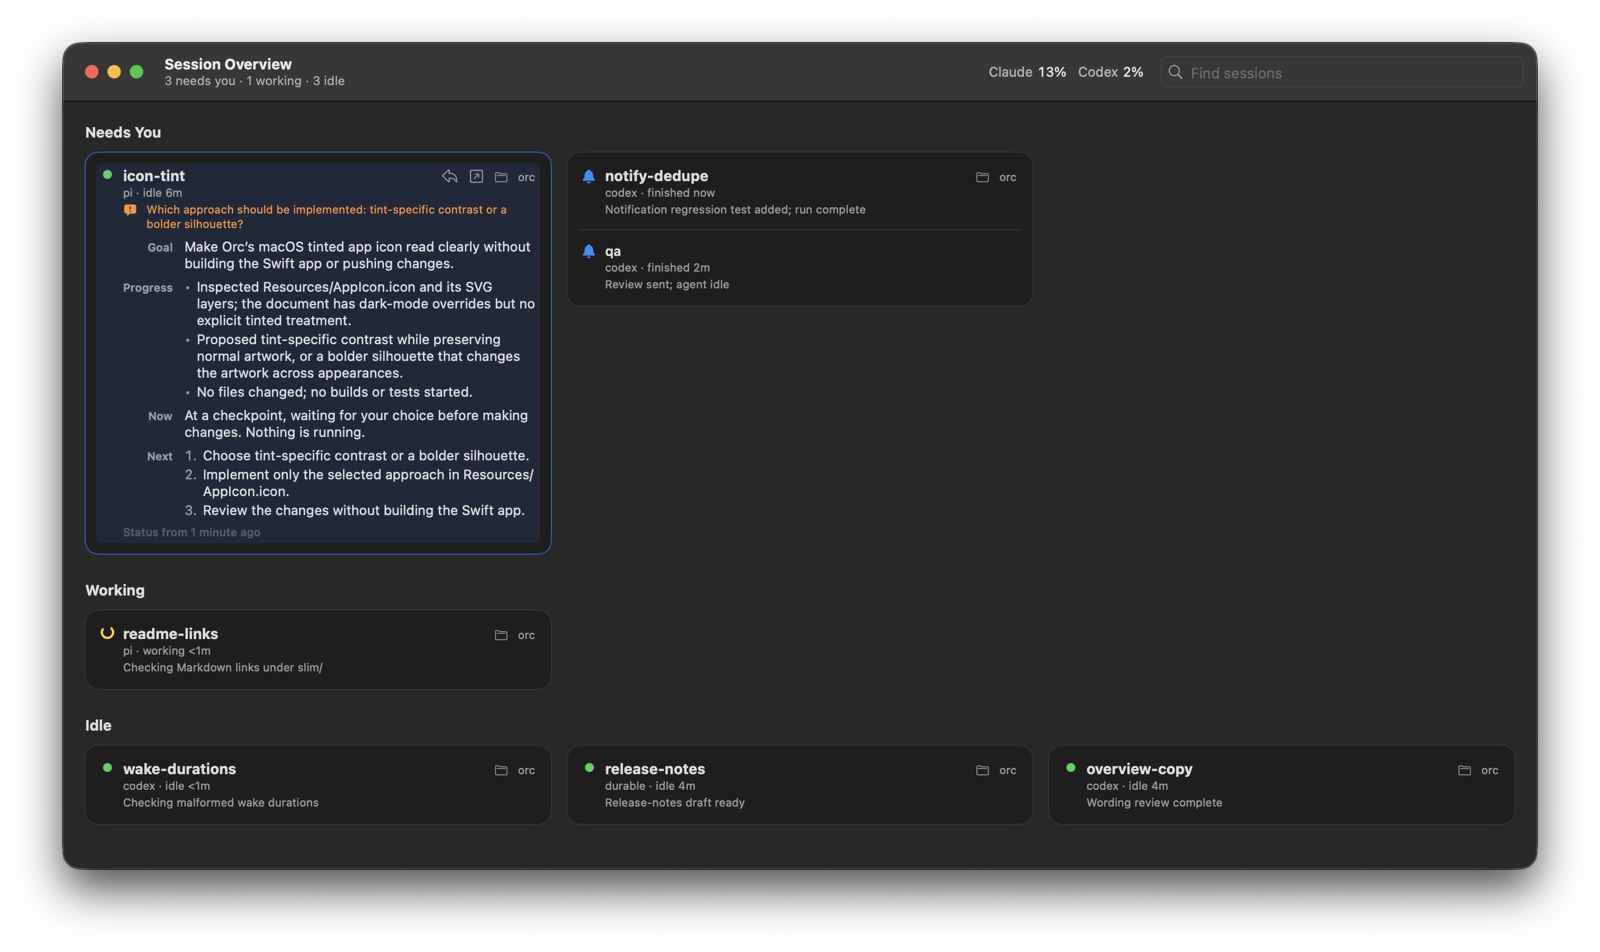
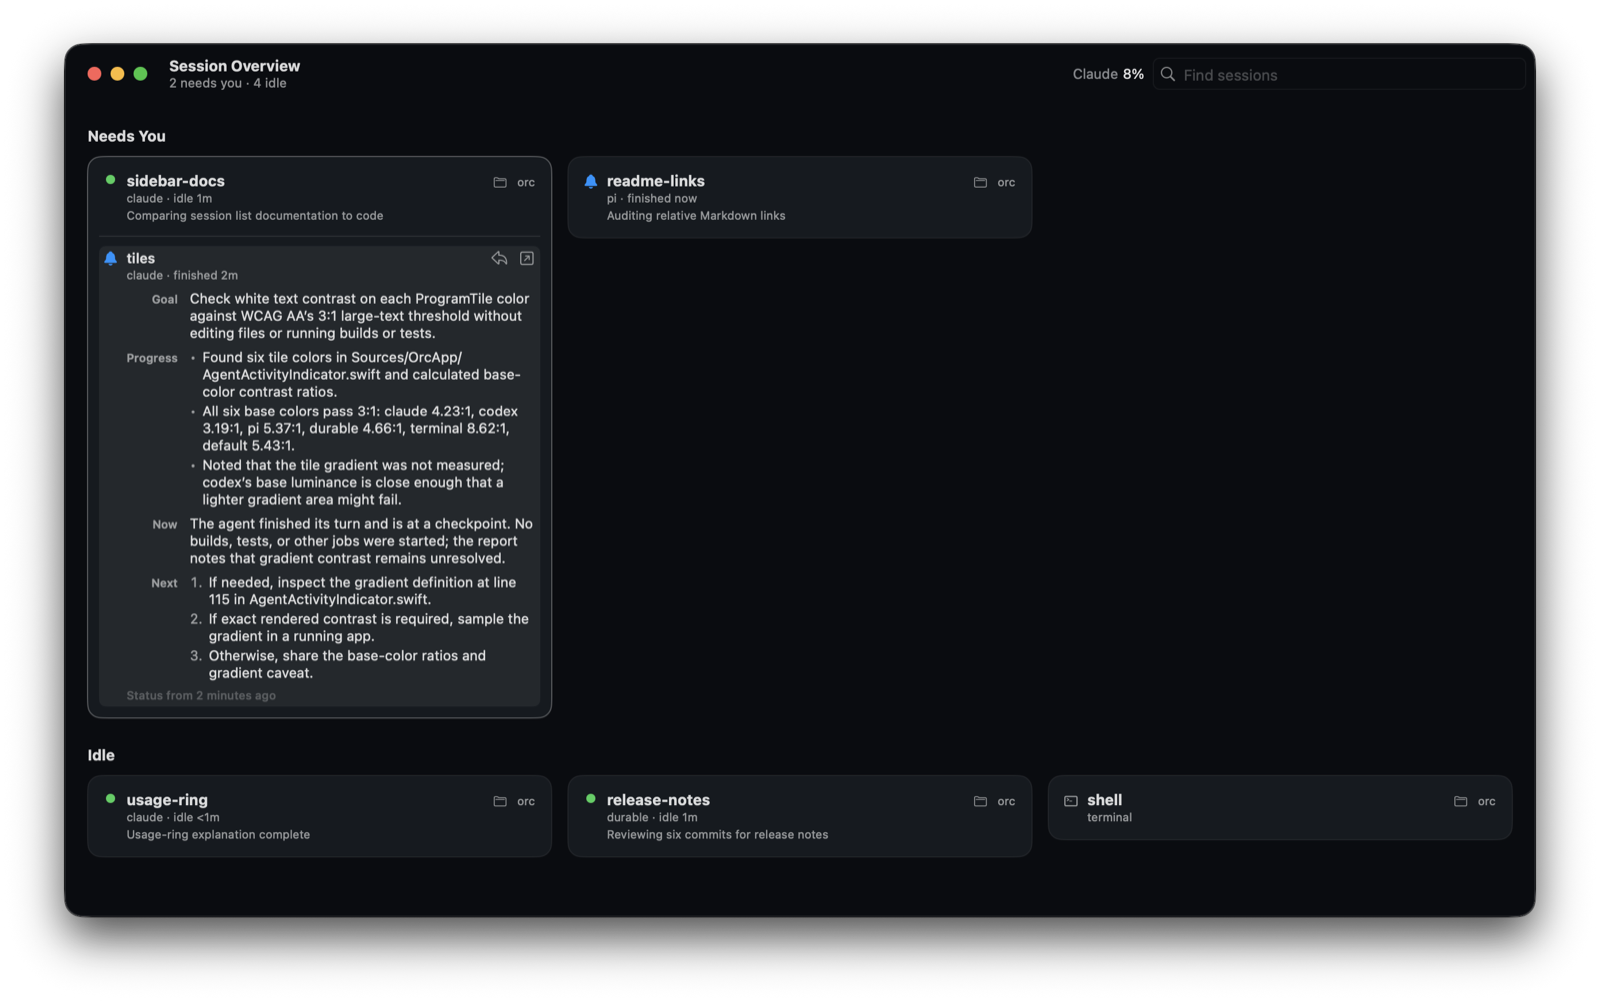
Show the new look in the README
The README's three screenshots showed the old window. They are retaken
from the current app: a demo copy on a throwaway runtime with Claude,
Pi and durable agents working read-only tasks in this repository, each
window captured with its shadow at 2x and scaled to 1600 px wide as
before. The main window shows program tiles, a working spinner, unread
bells and a child agent; the overview shows one card opened to its
full status; the Workbench shows a durable agent's draft release notes.

The README's alt text and the Native terminals feature describe Orc's
own terminal settings and theme colours. Two sentences in docs/app.md,
which an agent in the demo found out of date, now match the sidebar: a
muted idle agent shows its muted bell, and a program's name and message
show in its row's tooltip rather than in the row.

diff --git a/docs/app.md b/docs/app.md
@@ -16,7 +16,7 @@ Create a session with **⌘N**, or right-click a session and choose **Rename Ses
 
 The session list has a section for each project with sessions, including temporarily disconnected ones, headed by the project's name; hover over it for its folder and number of sessions. Hover over a header and click the arrow at its end to collapse or expand the project; Orc remembers which are collapsed and expands a project when one of its sessions is selected, for example from a notification. A project is placed where its first session is in the sidebar order. Each row shows a tile for the session's program (Claude, Codex, Pi, a durable agent, a program that reports its status, or a terminal) and its name. Hover over a row for its agent and, for an agent with a [status](agents.md#agent-status), its headline; the selected session's headline also heads its terminal. Drag sidebar rows to rearrange sessions within their project. Parents move with their children; children can move within their parent. The runtime keeps the order, so it is the same for every Mac that shows these sessions, and [Rex's tabs](cli.md#rex) follow it.
 
-A row's indicator, at its end, shows what an agent's hooks report when there is something to notice: a yellow spinner while it works, a blue bell for new output or a notification, and an orange exclamation mark when it needs attention. An idle agent shows none. A program that reports its status with [OSC 7501](https://www.superlogical.com/rex/docs/build/program-status), the Program Status Protocol, does the same for its session, even in a plain terminal session: working shows as active, blocked (waiting for permission, an answer or a sign-in) and failed as needing attention, and done as idle, with a notification when it finishes. The session list and the overview show the program's name and message. A gray cross marks an offline session; hover over any row for its status. The list refreshes every two seconds. Reduce Motion keeps the active indicator yellow without spinning.
+A row's indicator, at its end, shows what an agent's hooks report when there is something to notice: a yellow spinner while it works, a blue bell for new output or a notification, and an orange exclamation mark when it needs attention. An idle agent shows none, unless it is muted, which shows its muted bell. A program that reports its status with [OSC 7501](https://www.superlogical.com/rex/docs/build/program-status), the Program Status Protocol, does the same for its session, even in a plain terminal session: working shows as active, blocked (waiting for permission, an answer or a sign-in) and failed as needing attention, and done as idle, with a notification when it finishes. The overview shows the program's name and message, as does its row's tooltip in the session list. A gray cross marks an offline session; hover over any row for its status. The list refreshes every two seconds. Reduce Motion keeps the active indicator yellow without spinning.
 
 A ring at the bottom of the sidebar shows how much of each Claude and Codex subscription limit is used, filled to the agent's limit closest to being reached, with its share. Click it to see every limit: the five-hour session, the week, and weekly limits on one model, each with its share used and the time until it resets. Shares turn orange from 60% and red from 80%. An agent that is not installed, not signed in to a subscription, or at 0% of every limit is left out, here and in every other view of usage.
 

diff --git a/README.md b/README.md
@@ -18,7 +18,7 @@
 </p>
 
 <p align="center">
-  <img src="docs/images/main-window.png" alt="Orc's main window: a sidebar of agent sessions, each with its agent and a one-line status, beside a Codex agent editing tests in its terminal" width="900">
+  <img src="docs/images/main-window.png" alt="Orc's main window: a sidebar of Claude, Pi and durable agent sessions, each with its program's icon and, when it is working or has news, a status light, beside a Claude agent's report on where the docs and the code differ" width="900">
 </p>
 
 Orc keeps every agent and shell you run in one window. Sessions run in a background runtime, so they keep going when you close the app, and Orc tells you which ones have finished, which are waiting on an answer, and which are still at work.
@@ -26,7 +26,7 @@ Orc keeps every agent and shell you run in one window. Sessions run in a backgro
 ## Features
 
 - **Sessions that keep running.** Agents and shells run in Orc's background runtime. Close the app or update it and they carry on; restart your Mac and they come back under the same names, agents continuing their conversations.
-- **Native terminals.** Each session opens in an embedded [Ghostty](https://ghostty.org) terminal that uses your Ghostty theme, font and keybinds.
+- **Native terminals.** Each session opens in an embedded [Ghostty](https://ghostty.org) terminal that uses your Ghostty theme, font and keybinds, or settings of Orc's own over them. The whole window takes its colors from the terminal's theme.
 - **Session Overview.** Every session sorted into Needs You, Working and Idle, with what each agent is doing and any question it is waiting on you to answer.
 - **Agent status.** A model you choose reads each agent's transcript and writes its goal, progress and next steps, without interrupting the agent.
 - **Agents that work together.** Agents spawn, message and wait for each other by name, schedule wake-ups for themselves, and notify you when they have something to report.
@@ -38,7 +38,7 @@ Orc keeps every agent and shell you run in one window. Sessions run in a backgro
 ### Session Overview
 
 <p align="center">
-  <img src="docs/images/session-overview.png" alt="The Session Overview: an agent's question and full status under Needs You, a Pi agent under Working, and three finished agents under Idle" width="900">
+  <img src="docs/images/session-overview.png" alt="The Session Overview: two finished agents under Needs You, one opened to its full status with its goal, progress and next steps, and three sessions under Idle" width="900">
 </p>
 
 Press ⇧⌘O to see every session at once. Select one to read its full status, reply to it, or open it.
